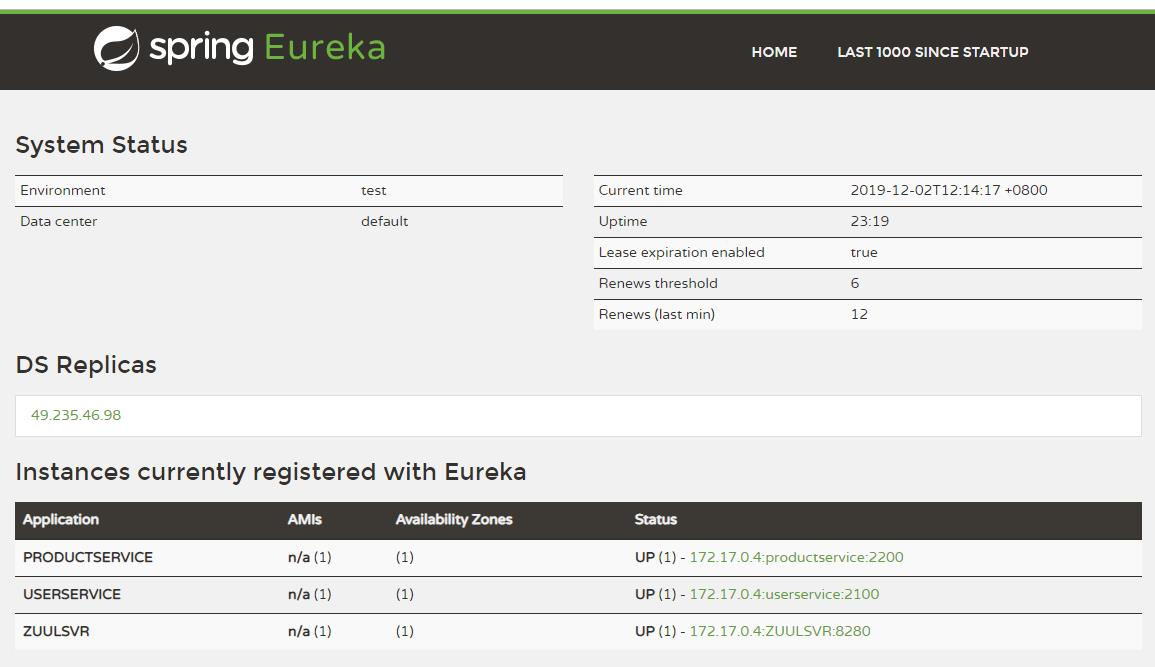
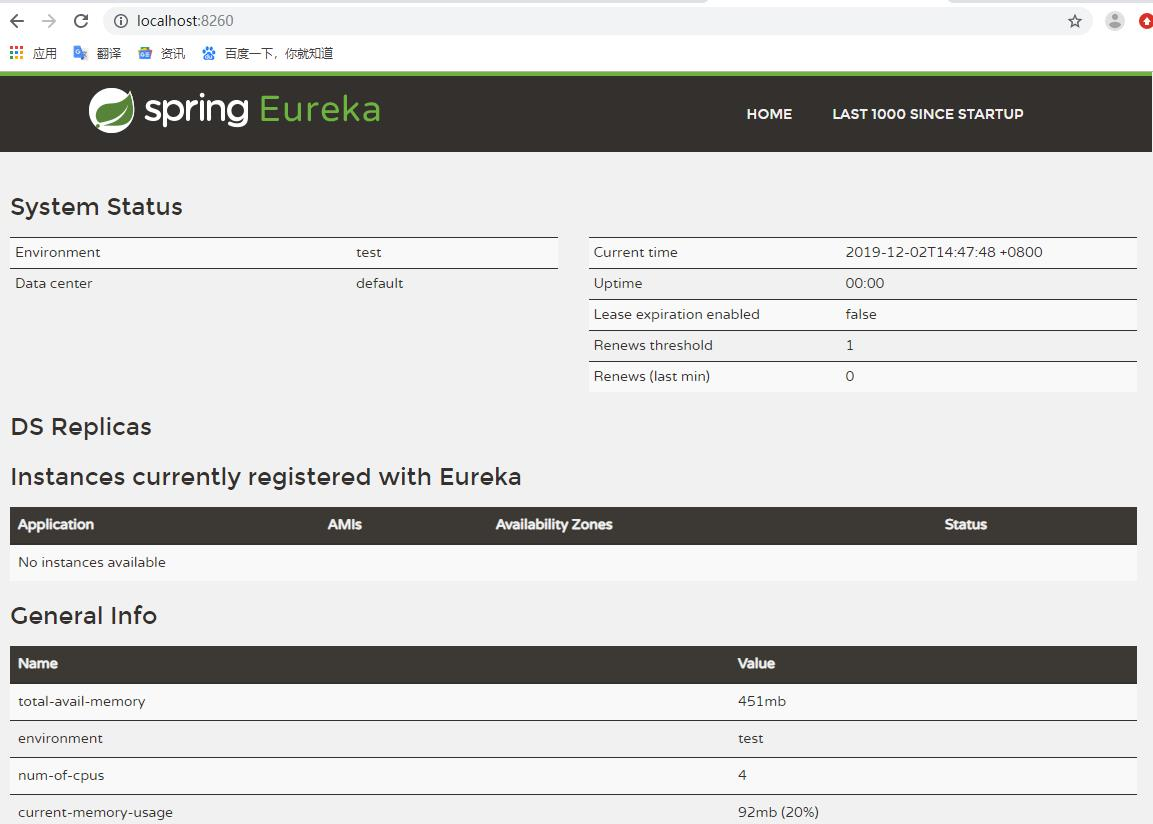
springCloud微服务

diff --git a/README.md b/README.md
@@ -15,9 +15,14 @@
 	* [三、SpringCloud](#三SpringCloud)
 	    * [1、Feign熔断降级](#1Feign熔断降级)		
 	* [四、服务治理Eureka与负载均衡Ribbon](#四服务治理Eureka与负载均衡Ribbon)
-	    * [1、搭建服务治理注册中心](#1搭建服务治理注册中心)		
+	    * [1、搭建治理服务器-Eureka服务器](#1搭建治理服务器-Eureka服务器)	
+	    * [2、搭建服务提供者-注册服务](#2搭建服务提供者-注册服务)
+	    * [3、搭建服务消费者-获取服务](#2搭建服务消费者-获取服务)
+	    * [4、客户端负载均衡Ribbon](#4客户端负载均衡Ribbon)	
+	    * [5、Eureka高可用集群](#5Eureka高可用集群)			
 	* [五、容错保护Hystrix](#五容错保护Hystrix)
 	* [六、API服务网关Zuul](#六API服务网关Zuul)
+	    * [1、搭建Zuul网关](#1搭建Zuul网关)	
 	* [七、统一配置中心Config](#七统一配置中心Config)
 	* [八、分布式服务跟踪Sleuth](#八分布式服务跟踪Sleuth)
 	* [九、消息驱动Stream](#九消息驱动Stream)
@@ -162,7 +167,7 @@ public interface HelloService {
 - 测试验证，启动服务治理服务器，启动Hello服务消费者，不启动Hello服务提供者。访问 http://localhost:8080/hello/你好 显示如下图效果，则证明服务降级成功：
 ![图片](/images/3.jpg)
 ### 四、服务治理Eureka与负载均衡Ribbon
-### 1、搭建服务治理注册中心
+### 1、1搭建治理服务器-Eureka服务器
 - maven添加Eureka服务器端依赖
 ```
 <dependencies>
@@ -190,4 +195,117 @@ eureka.client.register-with-eureka=false
 eureka.client.fetch-registry=false
 ```
 - 启动应用，并访问http://localhost:8026/即可看到Eureka信息面板，如下：
-![图片](/images/4.jpg)
+![图片](/images/4.jpg)<br>
+在上图"Instances currently registered with Eureka"信息中，没有一个实例，说明目前还没有服务注册。
+### 2、搭建服务提供者-注册服务
+- maven添加Eureka客户端依赖（跟上面的服务端依赖不一样）
+```
+<dependencies>
+    <dependency>
+        <groupId>org.springframework.cloud</groupId>
+        <artifactId>spring-cloud-starter-eureka</artifactId>
+    </dependency>
+</dependencies>
+```
+- 在主类上添加@EnableEurekaClient注解以实现Eureka中的DiscoveryClient实现
+```
+@EnableDiscoveryClient
+@SpringBootApplication
+public class Application {
+    public static void main(String[] args) {
+        SpringApplication.run(Application.class, args);
+    }
+}
+```
+在application.properties中添加配置与服务相关的一些基本信息，如服务名、注册中心地址(即上一节中设置的注册中心地址http://localhost:8260/eureka)
+```
+#  设置服务名
+spring.application.name=userservice
+#  设置注册中心地址
+eureka.client.service-url.defaultZone=http://localhost:8260/eureka
+```
+- 启动注册中心服务，可以看到如下的信息，说明此服务已经注册在了注册中心
+![图片](/images/4-2.jpg)<br>
+访问上面的服务治理注册中心http://localhost:8260/可以在Instances currently registered with Eureka中看到已经有一个服务注册了进来，并且名称为USERSERVICE的服务
+![图片](/images/4-3.jpg)
+### 3、搭建服务消费者-获取服务
+- 跟上面的注册服务搭建步骤差不多，源码请参考demo/chapter04 -- eureka/product-service，启动成功之后，
+访问服务治理注册中心http://localhost:8260/可以在Instances currently registered with Eureka中看到有服务注册进来，名称为PRODUCTSERVICE
+![图片](/images/4-4.jpg)
+### 4、客户端负载均衡Ribbon
+- maven添加ribbon依赖
+```
+<dependency>
+    <groupId>org.springframework.cloud</groupId>
+    <artifactId>spring-cloud-starter-ribbon</artifactId>
+</dependency>
+```
+- 在启动类中向Spring容器中注入一个带有@LoadBalanced注解的RestTemplate Bean
+```
+@EnableDiscoveryClient
+@EnableFeignClients
+@SpringBootApplication
+public class Application {
+    @Bean(value = "restTemplate")
+    @LoadBalanced
+    RestTemplate restTemplate() {
+        return new RestTemplate();
+    }
+    public static void main(String[] args) {
+        SpringApplication.run(Application.class, args);
+    }
+}
+```
+- 在调用那些需要做负载均衡的服务时，使用上面注入的RestTemplate Bean进行调用即可
+```
+UserDto userDto = this.restTemplate.getForEntity("http://USERSERVICE/users/{id}", UserDto.class, userId).getBody();
+```
+- 用三个端口分别启动服务提供者，访问服务消费者，刷新几次会看到，调用的端口不一样
+### 5、Eureka高可用集群
+- 略
+### 五、容错保护Hystrix
+通过hystrix可以解决雪崩效应问题，它提供了资源隔离、降级机制、融断、缓存等功能。
+- 资源隔离：包括线程池隔离和信号量隔离，限制调用分布式服务的资源使用，某一个调用的服务出现问题不会影响其他服务调用。
+- 降级机制：超时降级、资源不足时(线程或信号量)降级，降级后可以配合降级接口返回托底数据。
+- 融断：当失败率达到阀值自动触发降级(如因网络故障/超时造成的失败率高)，熔断器触发的快速失败会进行快速恢复。
+- 缓存：返回结果缓存，后续请求可以直接走缓存。
+- 请求合并：可以实现将一段时间内的请求（一般是对同一个接口的请求）合并，然后只对服务提供者发送一次请求。
+- 如上面讲的Feign熔断降级
+### 六、API服务网关Zuul
+- Zuul提供了动态路由、监控、弹性负载和安全功能。Zuul底层利用各种filter可实现如下功能：
+认证和安全 识别每个需要认证的资源，拒绝不符合要求的请求。<br>
+性能监测 在服务边界追踪并统计数据，提供精确的生产视图。<br>
+动态路由 根据需要将请求动态路由到后端集群。<br>
+压力测试 逐渐增加对集群的流量以了解其性能。<br>
+负载卸载 预先为每种类型的请求分配容量，当请求超过容量时自动丢弃。<br>
+静态资源处理 直接在边界返回某些响应。<br>
+### 1、搭建Zuul网关
+- maven中引入eureka客户端
+```
+<dependency>
+    <groupId>org.springframework.cloud</groupId>
+    <artifactId>spring-cloud-starter-eureka</artifactId>
+</dependency>
+<dependency>
+    <groupId>org.springframework.cloud</groupId>
+    <artifactId>spring-cloud-starter-zuul</artifactId>
+</dependency>
+```
+- 在启动类中，增加@EnableZuulProxy注解
+```
+@EnableZuulProxy
+@SpringBootApplication
+public class Application {
+    public static void main(String[] args) {
+        SpringApplication.run(Application.class, args);
+    }
+}
+```
+- 在application.properties中添加配置如服务名、注册中心地址等
+```
+#  设置注册中心地址
+eureka.client.service-url.defaultZone=http://localhost:8260/eureka
+```
+- 按顺序先启动治理服务器、服务提供者、服务消费者、网关服务器<br>
+访问服务治理注册中心http://localhost:8260/可以在Instances currently registered with Eureka中看到如下图
+![图片](/images/4-5.jpg)
